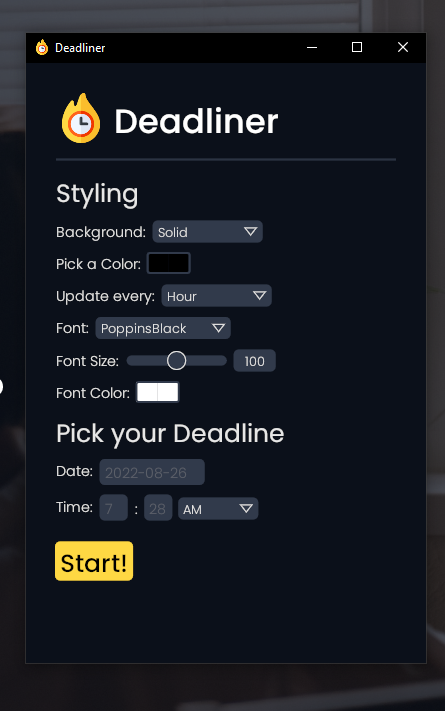
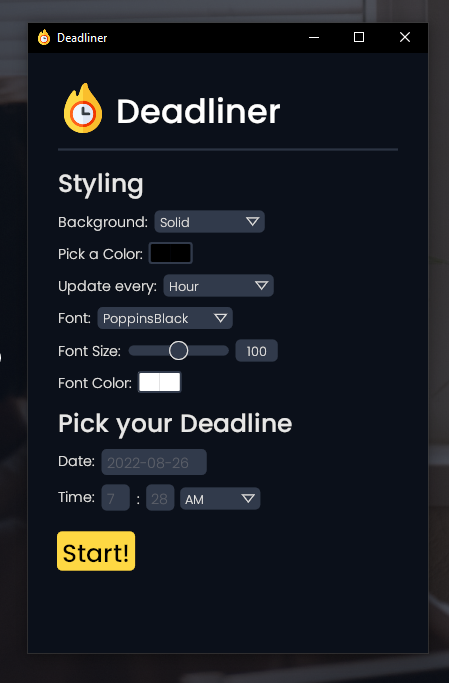
style: update app screenshot

diff --git a/src/lib.rs b/src/lib.rs
@@ -13,7 +13,7 @@ use std::{path, thread};
 
 fn sanitize_inputs(conf: &DeadlinerConf) -> Result<(), String> {
     if conf.date.is_empty() || conf.hours.is_empty() || conf.minutes.is_empty() {
-        return Err(String::from("Not enough Date Inputs"));
+        return Err(String::from("Not enough Inputs"));
     }
 
     let mut sanitized_conf = SanitizedConf {

diff --git a/src/deadliner.rs b/src/deadliner.rs
@@ -442,7 +442,7 @@ impl<'a> Deadliner<'a> {
         text_styles.insert(
             TextStyle::Heading,
             FontId {
-                family: FontFamily::Name("Poppins-500".into()),
+                family: FontFamily::Name("Poppins-600".into()),
                 size: 35.,
             },
         );
